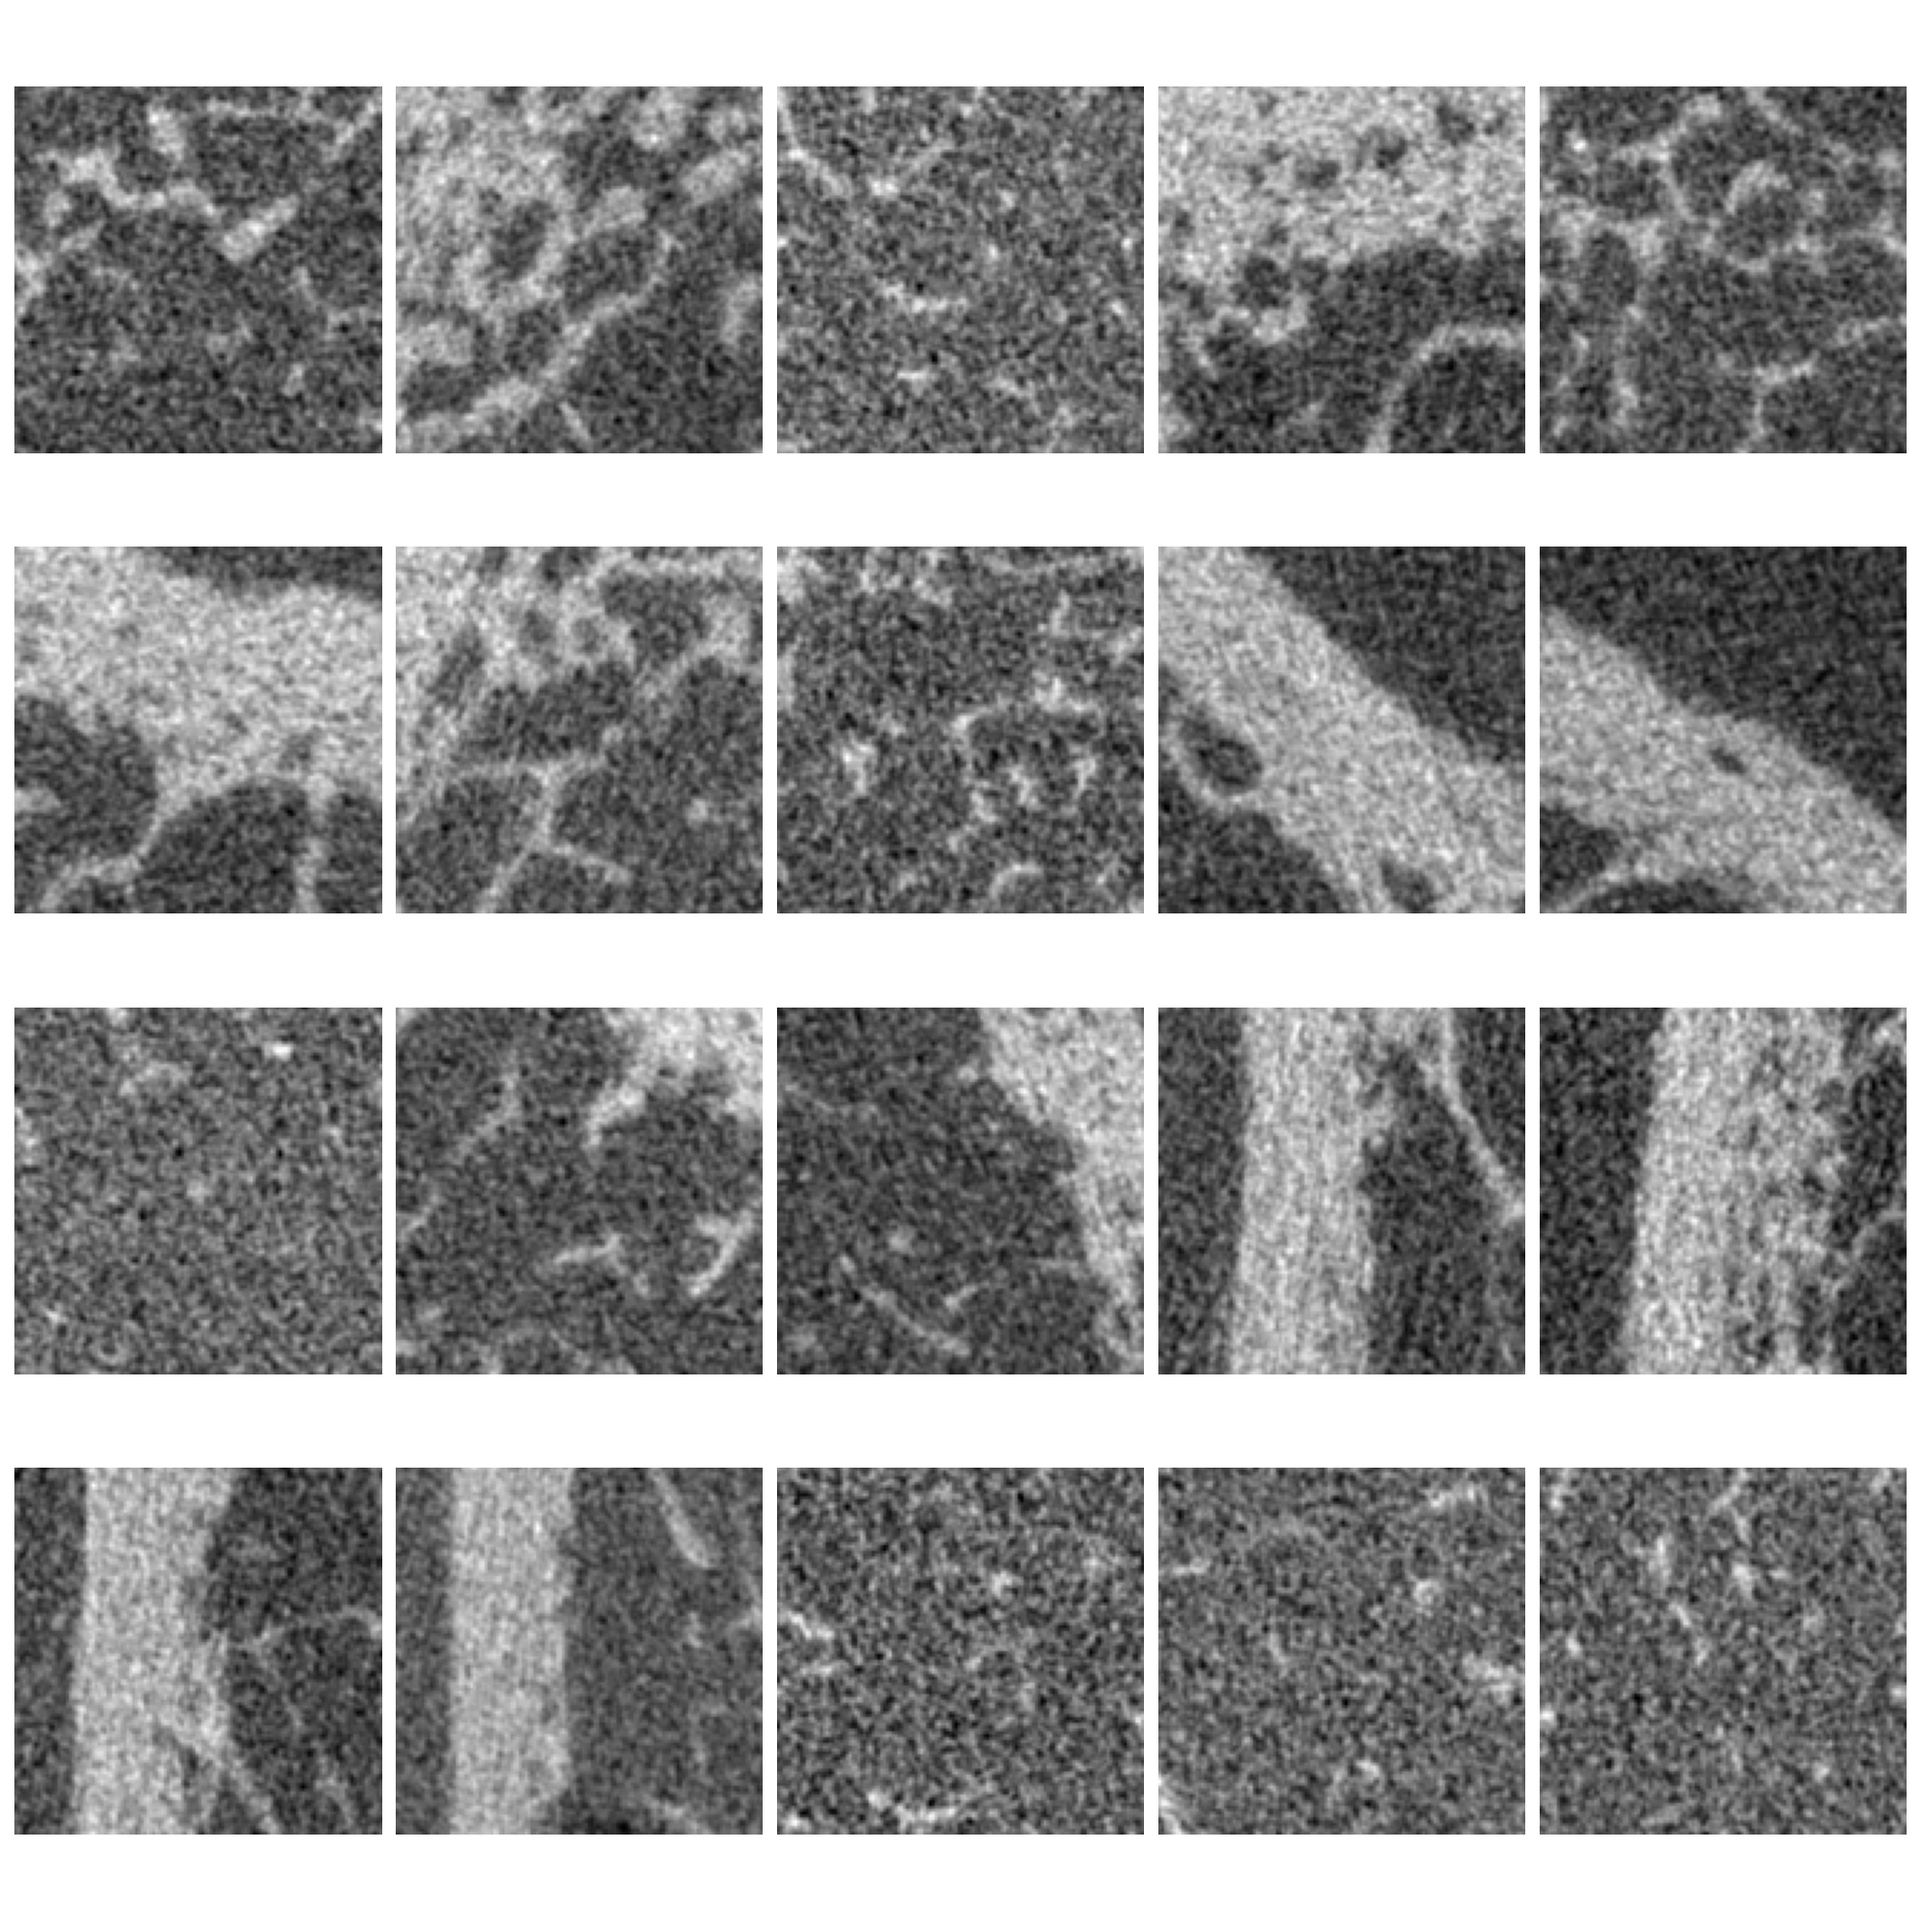
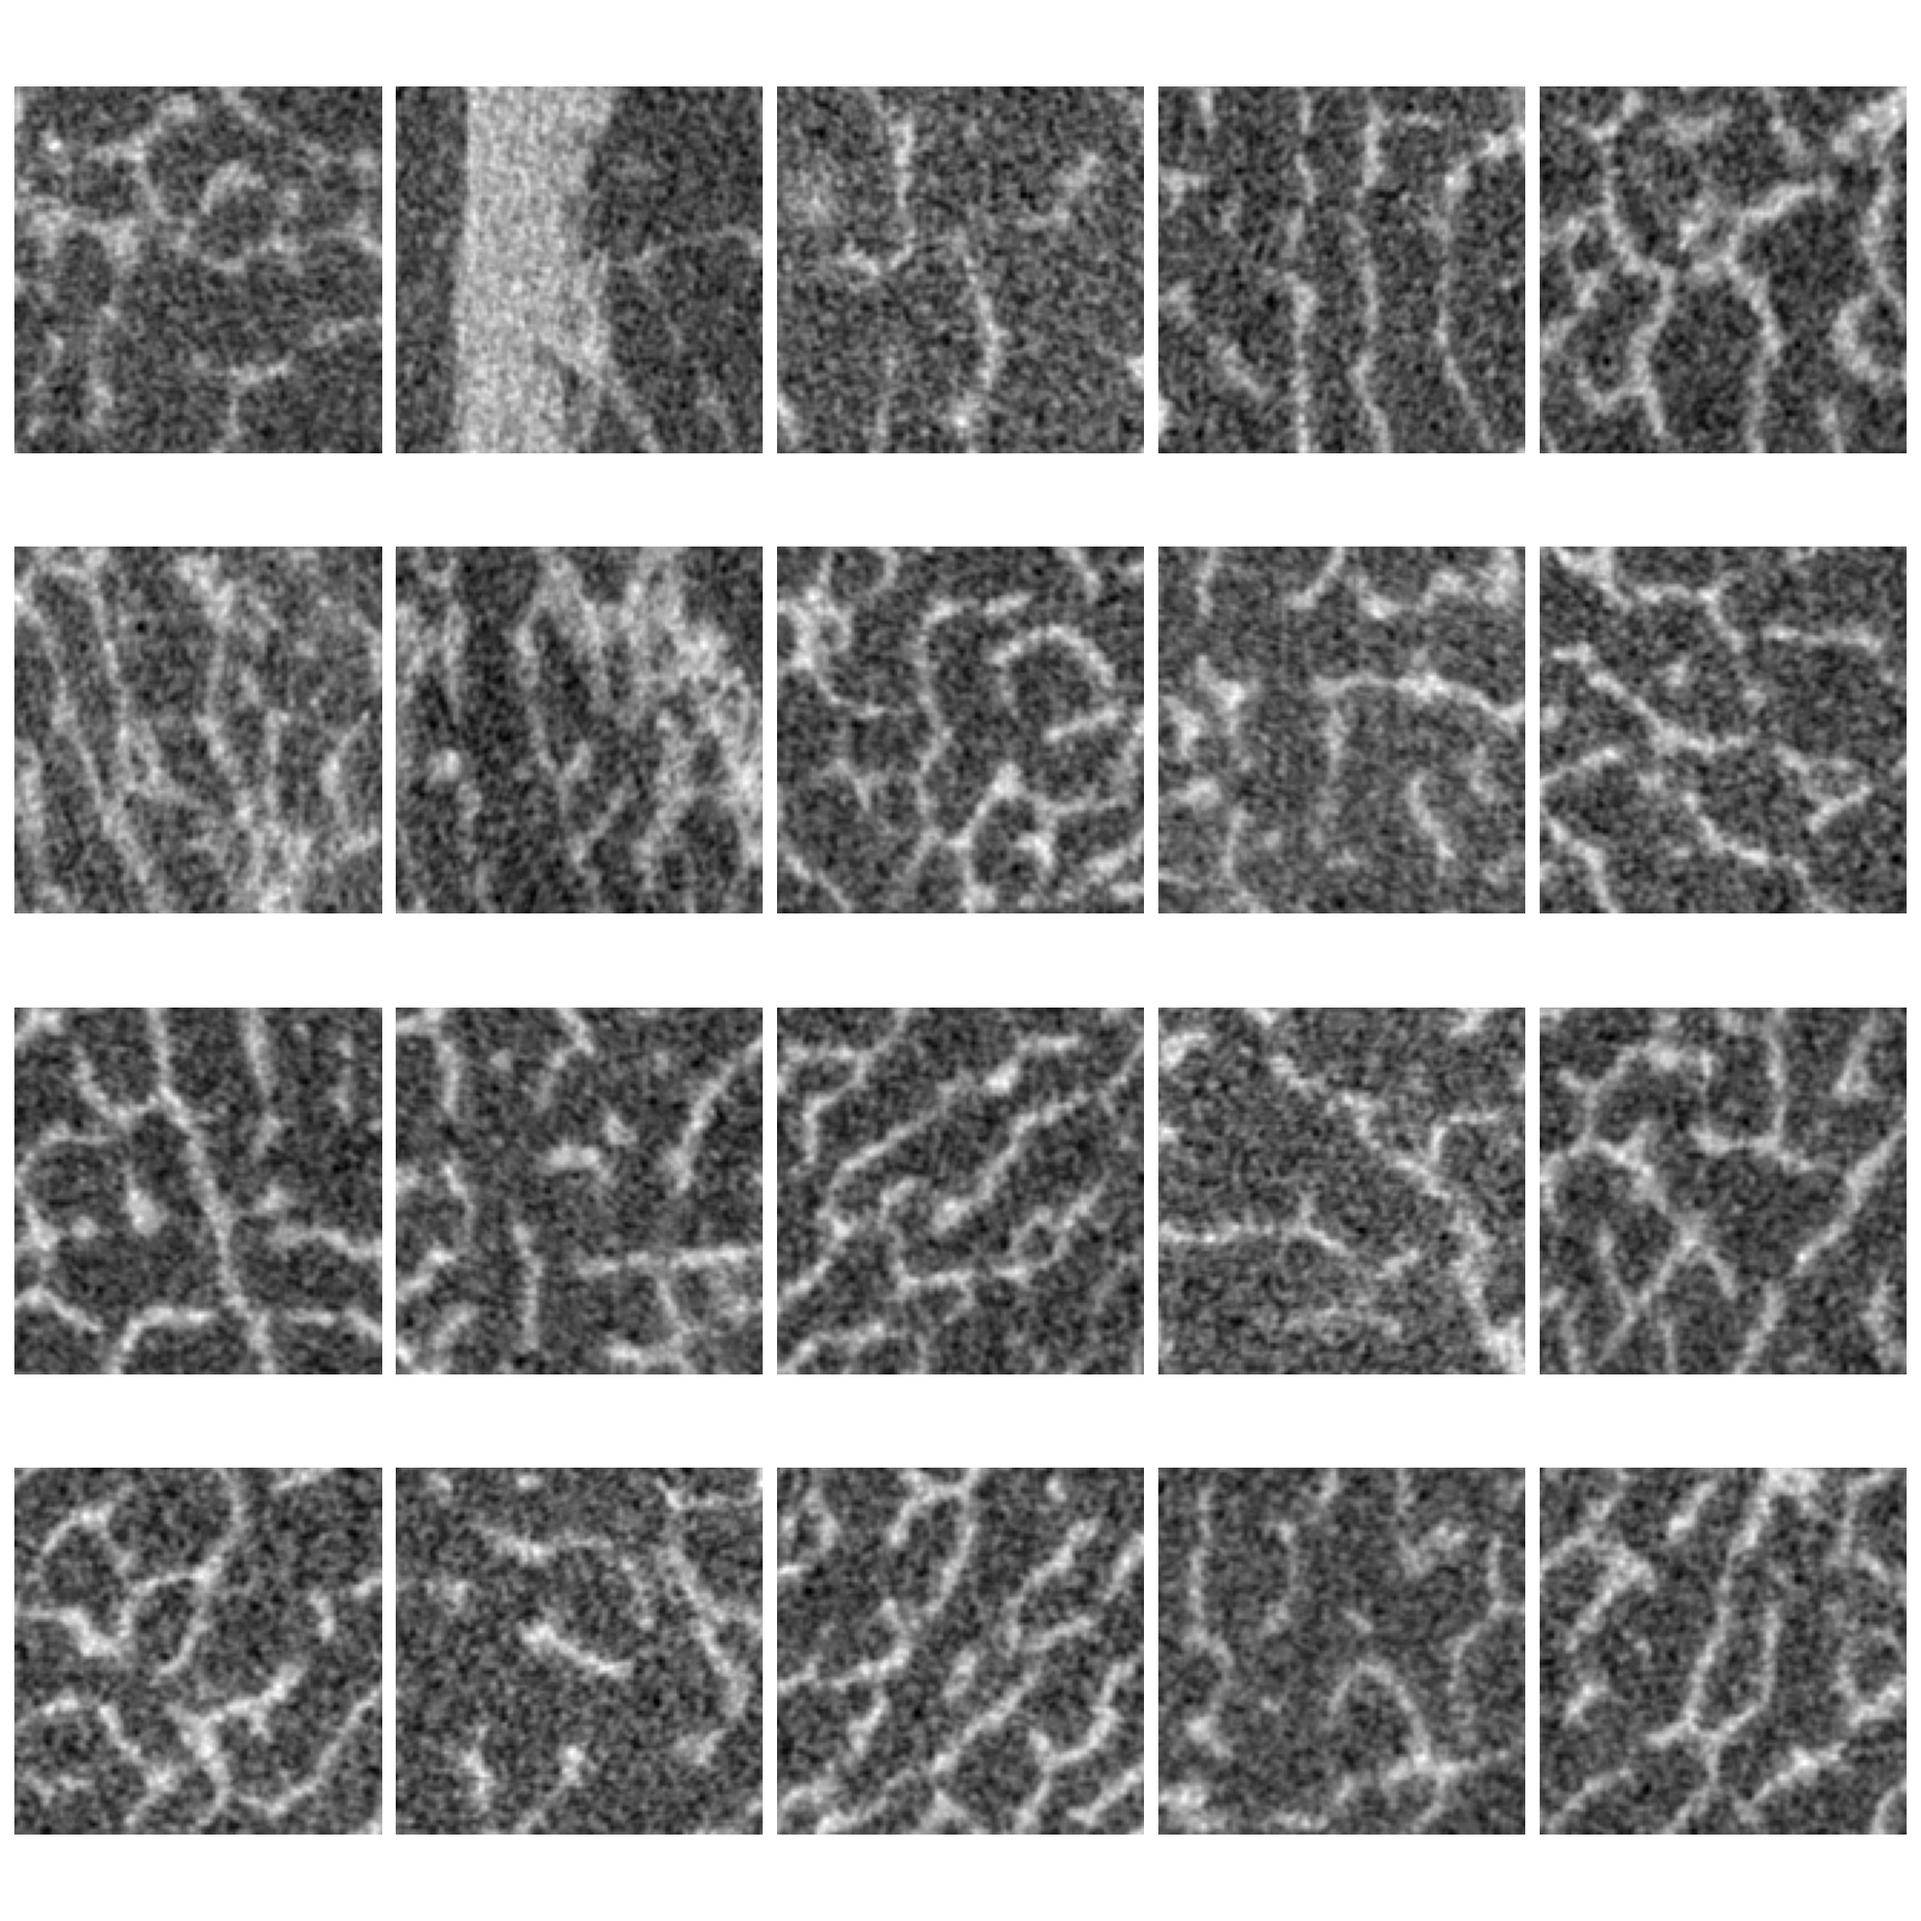
changed sensitivity in patches

diff --git a/prepare_dataset/supertrab_create_dataloader.py b/prepare_dataset/supertrab_create_dataloader.py
@@ -25,7 +25,7 @@ from torch.utils.data import DataLoader
 
 def main():
     PATCH_SIZE = 1, 128, 128
-    zarr_patch_sampler = zds.PatchSampler(PATCH_SIZE, min_area=1)
+    zarr_patch_sampler = zds.PatchSampler(PATCH_SIZE, min_area=0.999)
     file_path =  Path("/usr/terminus/data-xrm-01/stamplab/external/tacosound/HR-pQCT_II/zarr_data/supertrab_small.zarr")
     
     root: zarr.hierarchy.Group = zarr.open(str(file_path))
@@ -98,7 +98,7 @@ def main():
     n_rows = (n_plots + n_cols - 1) // n_cols  # Ceiling division to get required rows
 
     # Create one figure with multiple subplots
-    fig, axes = plt.subplots(n_rows, n_cols, figsize=(15, 3 * n_rows))
+    fig, axes = plt.subplots(n_rows, n_cols, figsize=(15, 3 * n_rows), dpi=500)
     axes = axes.flatten()  # Flatten the 2D array of axes for easier indexing
 
     # Loop through the positions
